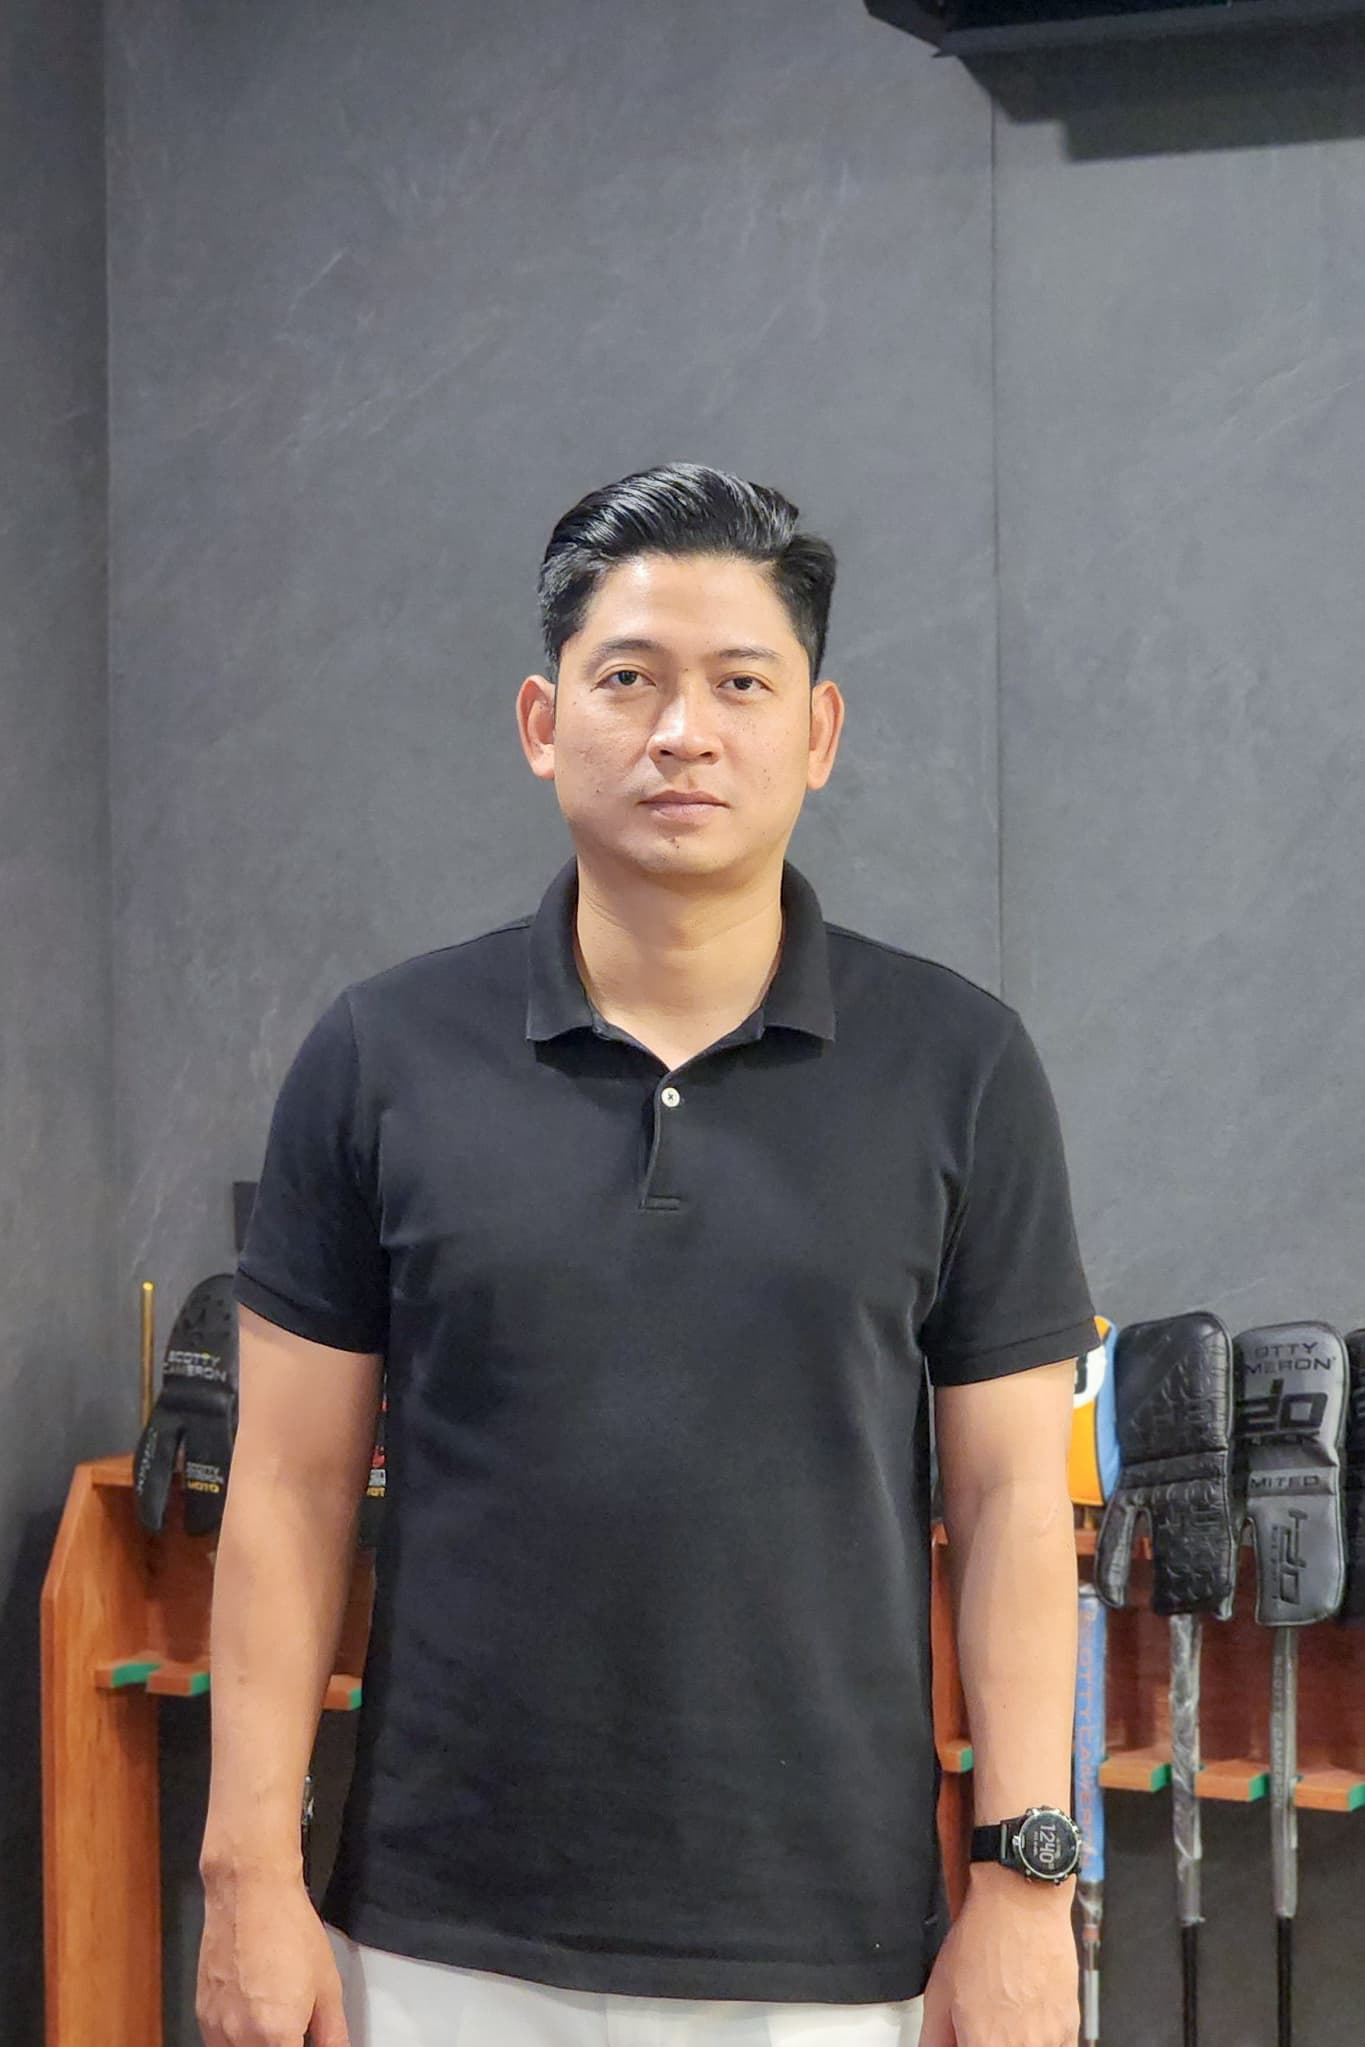
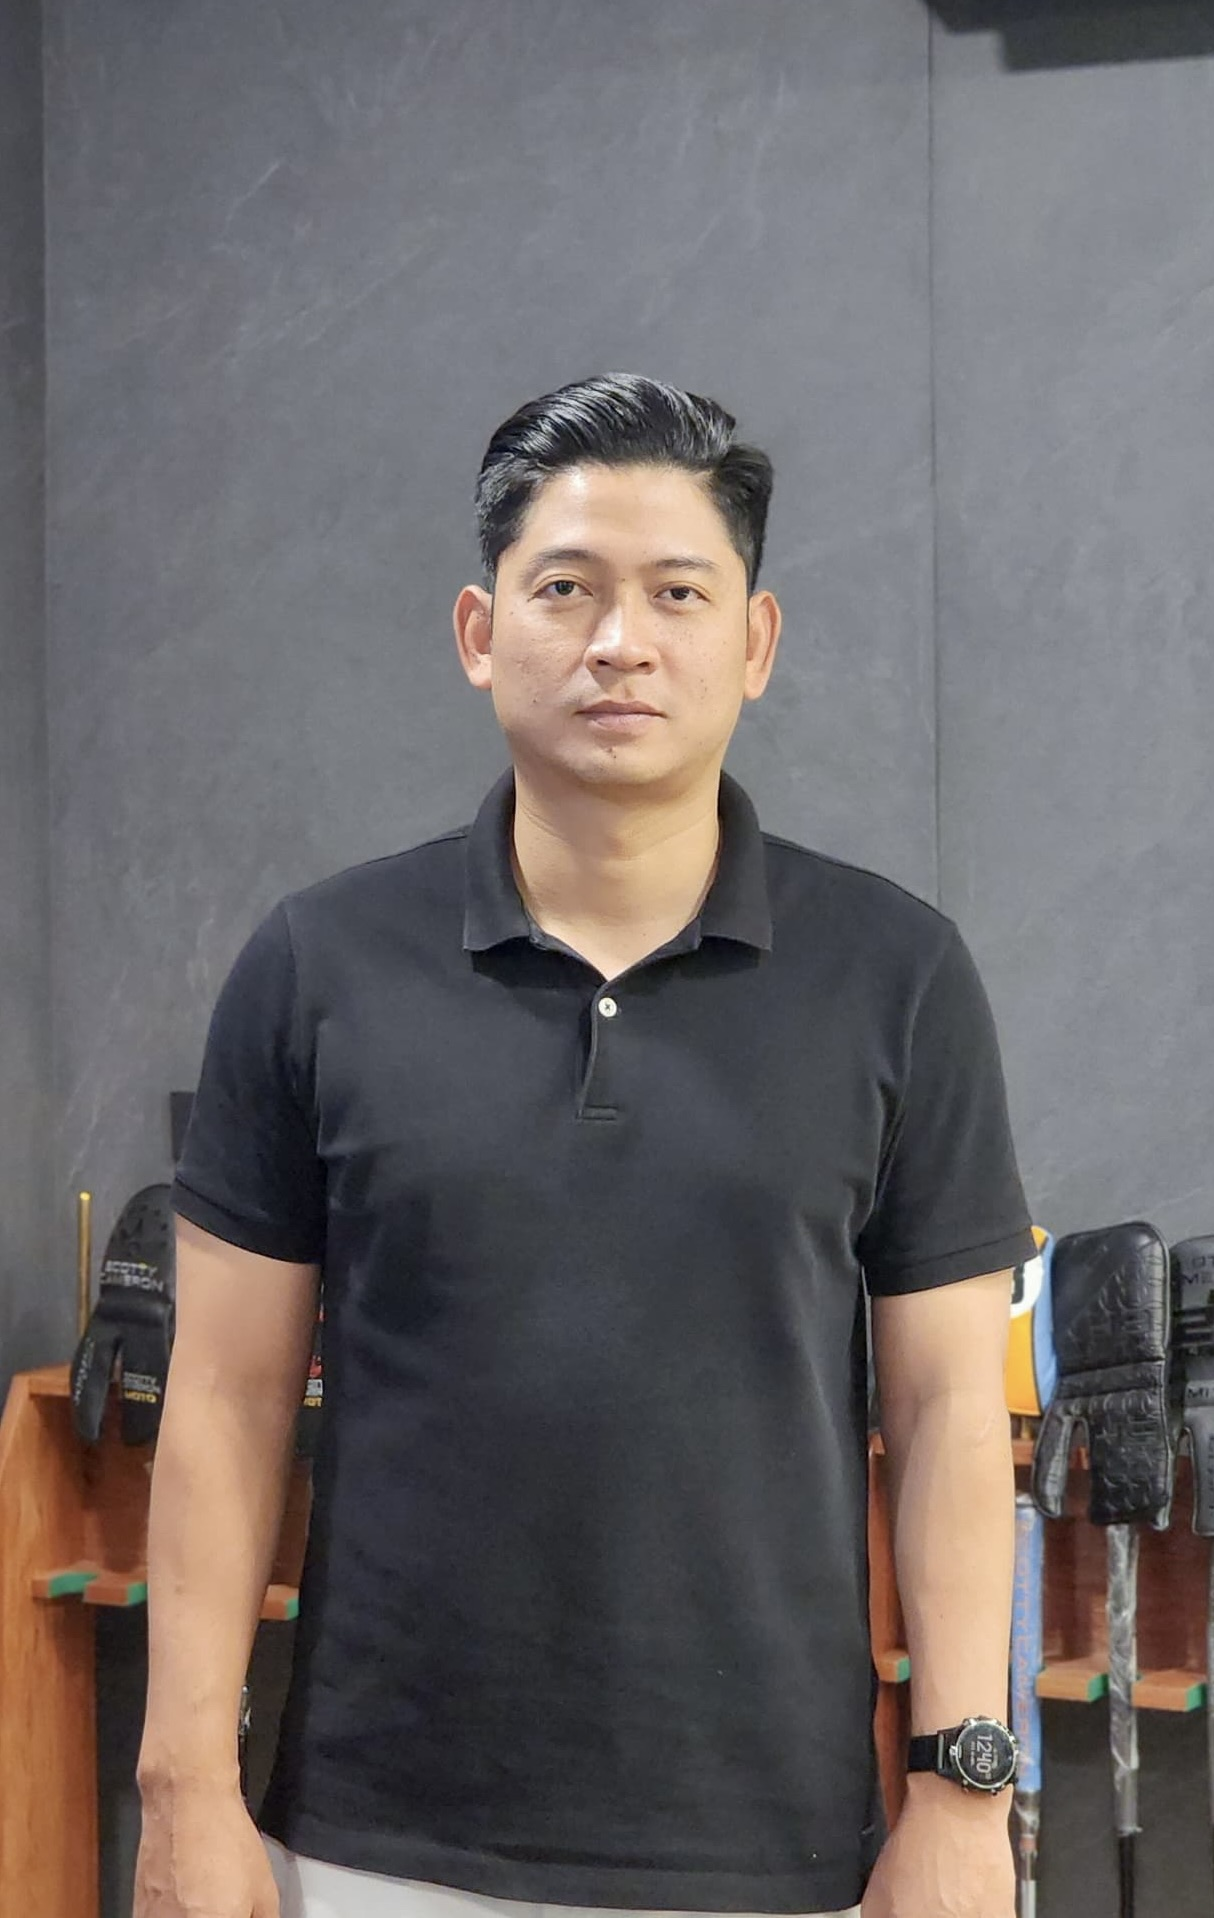
add(img): Kun Q

Changed region(s): [[0.0, 0.1846, 1.0, 1.0], [0.64, 0.0, 1.0, 0.0923], [0.0305, 0.0, 0.0914, 0.3076]]

diff --git a/src/features/TeamPage/components/TeamMember/TeamMember.tsx b/src/features/TeamPage/components/TeamMember/TeamMember.tsx
@@ -16,6 +16,12 @@ const teamMemberList: TeamMemberProps[] = [
     name: "Pakorn (Puck)",
     position: "CEO & Co-founder",
   },
+    {
+    img: "/images/teamPage/kunQ.jpg",
+    imgWebP: "/images/teamPage/kunQ.webp",
+    name: "Soratat (Q)",
+    position: "Founder",
+  },
   {
     img: "/images/teamPage/ter.jpg",
     imgWebP: "/images/teamPage/ter.webp",
